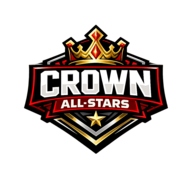
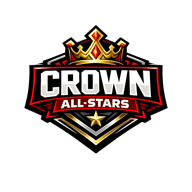
update

diff --git a/src/app/dashboard/support/page.tsx b/src/app/dashboard/support/page.tsx
@@ -1,0 +1,231 @@
+"use client";
+
+import { useState, useEffect } from "react";
+import { useAuth } from "@/lib/auth-context";
+import { db } from "@/lib/firebase";
+import { collection, onSnapshot, doc, updateDoc, deleteDoc, orderBy, query } from "firebase/firestore";
+import { Button } from "@/components/ui/button";
+import { Dialog, DialogContent, DialogHeader, DialogTitle, DialogDescription } from "@/components/ui/dialog";
+import { Select, SelectContent, SelectItem, SelectTrigger, SelectValue } from "@/components/ui/select";
+import { Shirt, CheckCircle2, Clock, Trash2, Edit } from "lucide-react";
+
+interface ShirtOrder {
+  id?: string;
+  nama: string;
+  noHp: string;
+  angkatan: string;
+  ukuran: string;
+  referral: string;
+  status: "pending" | "lunas";
+  createdAt?: any;
+}
+
+export default function DanusSupportPage() {
+  const { isAdmin } = useAuth();
+  
+  const [orders, setOrders] = useState<ShirtOrder[]>([]);
+  const [loading, setLoading] = useState(true);
+  
+  // Edit Dialog
+  const [open, setOpen] = useState(false);
+  const [editingOrder, setEditingOrder] = useState<ShirtOrder | null>(null);
+
+  useEffect(() => {
+    // Only fetch if admin
+    if (!isAdmin) {
+      setLoading(false);
+      return;
+    }
+
+    const q = query(collection(db, "danus_shirts"), orderBy("createdAt", "desc"));
+    const unsub = onSnapshot(q, (snap) => {
+      const data = snap.docs.map(d => ({ id: d.id, ...d.data() } as ShirtOrder));
+      setOrders(data);
+      setLoading(false);
+    });
+    return () => unsub();
+  }, [isAdmin]);
+
+  const handleOpenEdit = (order: ShirtOrder) => {
+    setEditingOrder({ ...order });
+    setOpen(true);
+  };
+
+  const handleSave = async () => {
+    if (!editingOrder?.id) return;
+    
+    await updateDoc(doc(db, "danus_shirts", editingOrder.id), {
+      status: editingOrder.status
+    });
+    setOpen(false);
+  };
+
+  const handleDelete = async (id: string) => {
+    if (confirm("Hapus pesanan baju ini?")) {
+      await deleteDoc(doc(db, "danus_shirts", id));
+      setOpen(false);
+    }
+  };
+
+  if (!isAdmin && !loading) {
+    return (
+      <div className="min-h-screen flex items-center justify-center p-4">
+        <p className="text-red-400">Anda tidak memiliki akses ke halaman ini.</p>
+      </div>
+    );
+  }
+
+  if (loading) return (
+    <div className="min-h-screen flex items-center justify-center p-4">
+      <div className="animate-spin rounded-full border-2 border-red-500/50 border-t-red-500 w-12 h-12"></div>
+    </div>
+  );
+
+  const totalPesanan = orders.length;
+  const lunasCount = orders.filter(o => o.status === "lunas").length;
+  const pendingCount = orders.filter(o => o.status === "pending").length;
+
+  return (
+    <div className="min-h-screen bg-[radial-gradient(ellipse_at_top,_var(--tw-gradient-stops))] from-slate-900 via-gray-900 to-black p-4 text-slate-100">
+      <div className="max-w-6xl mx-auto space-y-6">
+        
+        {/* Header */}
+        <div className="text-center space-y-2 py-6">
+          <div className="flex items-center justify-center gap-3">
+            <div className="p-3 bg-red-500/10 rounded-2xl border border-red-500/20 shadow-[0_0_20px_rgba(239,68,68,0.2)]">
+              <Shirt className="h-8 w-8 text-red-400" />
+            </div>
+            <h1 className="text-3xl font-black bg-gradient-to-r from-red-400 to-rose-600 bg-clip-text text-transparent uppercase tracking-wider">
+              Data Pesanan Danus Baju
+            </h1>
+          </div>
+          <p className="text-slate-400 text-sm font-medium">
+            Kejurnas 2026 Support
+          </p>
+        </div>
+
+        {/* Stats Row */}
+        <div className="grid grid-cols-3 gap-3">
+          <div className="bg-white/5 border border-white/10 rounded-xl p-4 text-center">
+            <p className="text-xs text-slate-400 uppercase font-bold tracking-widest">Total Pesanan</p>
+            <p className="text-3xl font-black text-white mt-1">{totalPesanan}</p>
+          </div>
+          <div className="bg-emerald-500/5 border border-emerald-500/20 rounded-xl p-4 text-center">
+            <p className="text-xs text-emerald-400/80 uppercase font-bold tracking-widest">Lunas</p>
+            <p className="text-3xl font-black text-emerald-400 mt-1">{lunasCount}</p>
+          </div>
+          <div className="bg-amber-500/5 border border-amber-500/20 rounded-xl p-4 text-center">
+            <p className="text-xs text-amber-400/80 uppercase font-bold tracking-widest">Belum Lunas</p>
+            <p className="text-3xl font-black text-amber-400 mt-1">{pendingCount}</p>
+          </div>
+        </div>
+
+        {/* Order List (Table style for Desktop, Card style for Mobile) */}
+        <div className="bg-white/5 border border-white/10 rounded-2xl p-1 shadow-xl overflow-hidden">
+          {orders.length === 0 ? (
+            <div className="p-10 text-center text-slate-500">Belum ada pesanan baju.</div>
+          ) : (
+            <div className="overflow-x-auto">
+              <table className="w-full text-left border-collapse">
+                <thead>
+                  <tr className="bg-white/5 border-b border-white/10 text-xs uppercase tracking-widest text-slate-400">
+                    <th className="p-4 font-bold">Nama</th>
+                    <th className="p-4 font-bold">No HP</th>
+                    <th className="p-4 font-bold">Angkatan</th>
+                    <th className="p-4 font-bold">Ukuran</th>
+                    <th className="p-4 font-bold">Referral</th>
+                    <th className="p-4 font-bold">Status</th>
+                    <th className="p-4 font-bold text-right">Aksi</th>
+                  </tr>
+                </thead>
+                <tbody className="divide-y divide-white/5">
+                  {orders.map((order) => (
+                    <tr key={order.id} className="hover:bg-white/5 transition-colors">
+                      <td className="p-4 font-medium text-white">{order.nama}</td>
+                      <td className="p-4 text-slate-300 font-mono text-sm">{order.noHp}</td>
+                      <td className="p-4 text-slate-300 text-center">{order.angkatan || '-'}</td>
+                      <td className="p-4">
+                        <span className="px-2 py-1 rounded bg-slate-800 border border-slate-700 text-xs font-bold text-slate-200">
+                          {order.ukuran}
+                        </span>
+                      </td>
+                      <td className="p-4 text-slate-400 italic text-sm">{order.referral || '-'}</td>
+                      <td className="p-4">
+                        {order.status === "lunas" ? (
+                          <span className="inline-flex items-center gap-1.5 px-2 py-1 rounded-md bg-emerald-500/20 text-emerald-400 border border-emerald-500/30 text-xs font-bold uppercase">
+                            <CheckCircle2 className="w-3.5 h-3.5" /> Lunas
+                          </span>
+                        ) : (
+                          <span className="inline-flex items-center gap-1.5 px-2 py-1 rounded-md bg-amber-500/20 text-amber-400 border border-amber-500/30 text-xs font-bold uppercase">
+                            <Clock className="w-3.5 h-3.5" /> Pending
+                          </span>
+                        )}
+                      </td>
+                      <td className="p-4 text-right">
+                        <Button 
+                          variant="ghost" 
+                          size="sm" 
+                          onClick={() => handleOpenEdit(order)}
+                          className="text-slate-400 hover:text-white hover:bg-slate-800"
+                        >
+                          <Edit className="w-4 h-4 mr-2" /> Edit
+                        </Button>
+                      </td>
+                    </tr>
+                  ))}
+                </tbody>
+              </table>
+            </div>
+          )}
+        </div>
+      </div>
+
+      {/* Admin Dialog */}
+      <Dialog open={open} onOpenChange={setOpen}>
+        <DialogContent className="bg-slate-900 border-white/10 text-white max-w-sm">
+          <DialogHeader>
+            <DialogTitle className="text-xl font-bold">Edit Pesanan</DialogTitle>
+            <DialogDescription className="text-slate-400">
+              Update status pembayaran untuk pesanan {editingOrder?.nama}.
+            </DialogDescription>
+          </DialogHeader>
+          
+          <div className="space-y-4 pt-4">
+            <div>
+              <label className="text-xs text-slate-400 font-bold uppercase tracking-wider mb-1 block">Status Pembayaran</label>
+              <Select 
+                value={editingOrder?.status || "pending"} 
+                onValueChange={(v: any) => setEditingOrder(prev => prev ? {...prev, status: v} : null)}
+              >
+                <SelectTrigger className={`bg-black/50 border-white/10 ${
+                  editingOrder?.status === "lunas" ? "text-emerald-400" : "text-amber-400"
+                }`}>
+                  <SelectValue />
+                </SelectTrigger>
+                <SelectContent className="bg-slate-800 border-white/10 text-white">
+                  <SelectItem value="pending">Pending</SelectItem>
+                  <SelectItem value="lunas">Lunas</SelectItem>
+                </SelectContent>
+              </Select>
+            </div>
+
+            <div className="flex gap-3 pt-4 border-t border-white/10 mt-6">
+              {editingOrder?.id && (
+                <Button 
+                  variant="outline" 
+                  onClick={() => handleDelete(editingOrder.id!)} 
+                  className="px-3 border-red-500/30 text-red-400 hover:bg-red-500/10 hover:text-red-300"
+                  title="Hapus Pesanan"
+                >
+                  <Trash2 className="w-4 h-4" />
+                </Button>
+              )}
+              <Button variant="outline" onClick={() => setOpen(false)} className="flex-1 bg-transparent border-white/10 text-white hover:bg-white/5">Batal</Button>
+              <Button onClick={handleSave} className="flex-1 bg-red-600 hover:bg-red-500 text-white shadow-[0_0_15px_rgba(239,68,68,0.3)]">Simpan</Button>
+            </div>
+          </div>
+        </DialogContent>
+      </Dialog>
+    </div>
+  );
+}

diff --git a/src/app/login/page.tsx b/src/app/login/page.tsx
@@ -39,11 +39,12 @@ export default function LoginPage() {
         <div className="mb-8 flex flex-col items-center gap-4">
           <div className="flex h-20 w-20 items-center justify-center rounded-2xl border border-white/20 bg-white/10 shadow-lg shadow-cyan-500/10">
             <Image
-              src="/crown-logo.png"
+              src="/logo-crown-new.png"
               alt="Crown Allstar"
-              width={56}
-              height={56}
-              className="rounded-xl"
+              width={64}
+              height={64}
+              className="drop-shadow-2xl"
+              priority
             />
           </div>
           <div className="text-center">

diff --git a/src/components/sidebar.tsx b/src/components/sidebar.tsx
@@ -4,7 +4,7 @@ import { usePathname } from "next/navigation";
 import Link from "next/link";
 import Image from "next/image";
 import { useState } from "react";
-import { Scale, Calendar, Menu, X, ClipboardCheck, LogOut, Megaphone, ShieldAlert, Calculator, Dumbbell, HeartPulse } from "lucide-react";
+import { Scale, Calendar, Menu, X, ClipboardCheck, LogOut, Megaphone, ShieldAlert, Calculator, Dumbbell, HeartPulse, Shirt } from "lucide-react";
 import { useAuth } from "@/lib/auth-context";
 
 const getNavItems = (isAdmin: boolean) => [
@@ -50,6 +50,11 @@ const getNavItems = (isAdmin: boolean) => [
           href: "/dashboard/athletes",
           icon: ShieldAlert,
         },
+        {
+          label: "Pesanan Danus",
+          href: "/dashboard/support",
+          icon: Shirt,
+        },
       ]
     : []),
 ];
@@ -94,7 +99,7 @@ export function Sidebar() {
         <div className="flex items-center gap-3 border-b border-white/10 p-5">
           <div className="flex h-10 w-10 items-center justify-center rounded-xl border border-white/20 bg-white/10">
             <Image
-              src="/crown-logo.png"
+              src="/logo-crown-new.png"
               alt="Crown Allstar"
               width={32}
               height={32}

diff --git a/src/app/layout.tsx b/src/app/layout.tsx
@@ -6,16 +6,16 @@ const siteUrl =
   process.env.NEXT_PUBLIC_BASE_URL ??
   (process.env.VERCEL_URL ? `https://${process.env.VERCEL_URL}` : "http://localhost:3000");
 
-const ogImageUrl = new URL("/crown-logo.png", siteUrl);
+const ogImageUrl = new URL("/logo-crown-new.png", siteUrl);
 
 export const metadata: Metadata = {
   metadataBase: new URL(siteUrl),
   title: "Crown Allstar Cheerleading",
   description: "Platform Manajemen Tim & Atlet Crown Allstar - Track Jadwal, Absensi, Progress Latihan, dan Informasi Tim secara Real-time.",
   icons: {
-    icon: [{ url: "/crown-logo.png", type: "image/png" }],
-    shortcut: "/crown-logo.png",
-    apple: "/crown-logo.png"
+    icon: [{ url: "/logo-crown-new.png", type: "image/png" }],
+    shortcut: "/logo-crown-new.png",
+    apple: "/logo-crown-new.png"
   },
   openGraph: {
     title: "Crown Allstar Cheerleading",

diff --git a/src/app/dashboard/berat-flyer/page.tsx b/src/app/dashboard/berat-flyer/page.tsx
@@ -809,9 +809,9 @@ export default function DashboardPage() {
           <div className="flex items-center gap-4">
             <div className="flex h-12 w-12 items-center justify-center rounded-xl border border-white/20 bg-white/10">
               <Image
-                src="/crown-logo.png"
+                src="/logo-crown-new.png"
                 alt="Crown Allstar"
-                width={40}
+                width={48}
                 height={40}
                 className="h-10 w-10 object-contain"
                 priority